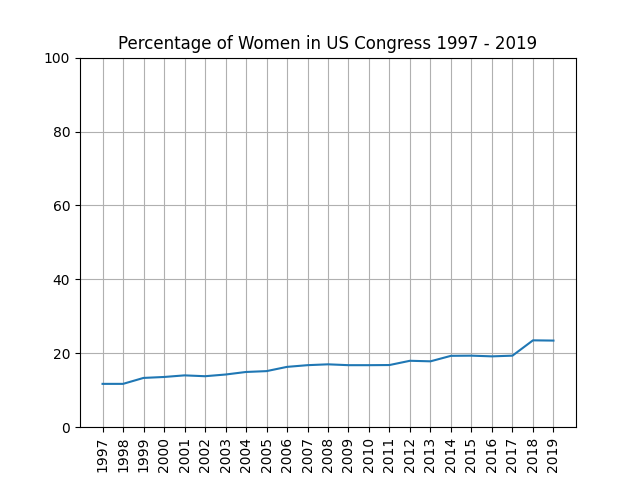
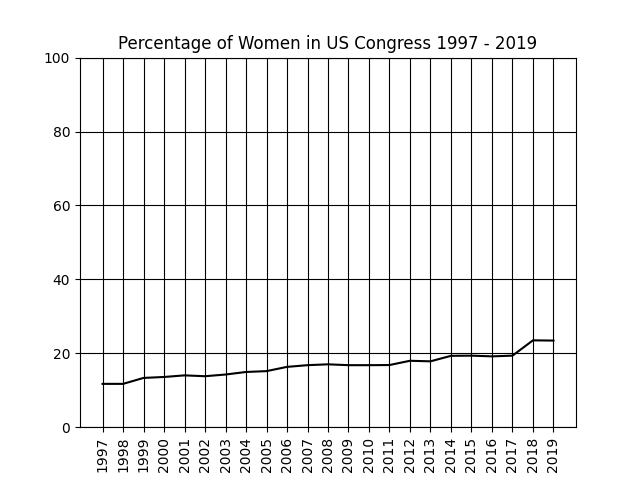
3/29

diff --git a/congress_ex.py b/congress_ex.py
@@ -20,12 +20,16 @@ for line in data:
     y_data.append(float(to_read[1].strip())*100)
 
 # Look and labels
+print(plt.style.available)
+plt.style.use('grayscale')
 plt.title('Percentage of Women in US Congress 1997 - 2019')
 plt.xlabel = 'Year (starting 1997)'
 plt.ylabel = 'Percentage of Congress that is Women'
 plt.grid()
 plt.xticks(x_data, rotation='vertical')
 plt.ylim((0, 100))
+
+
 
 # Create the plot
 plt.plot(x_data, y_data)
